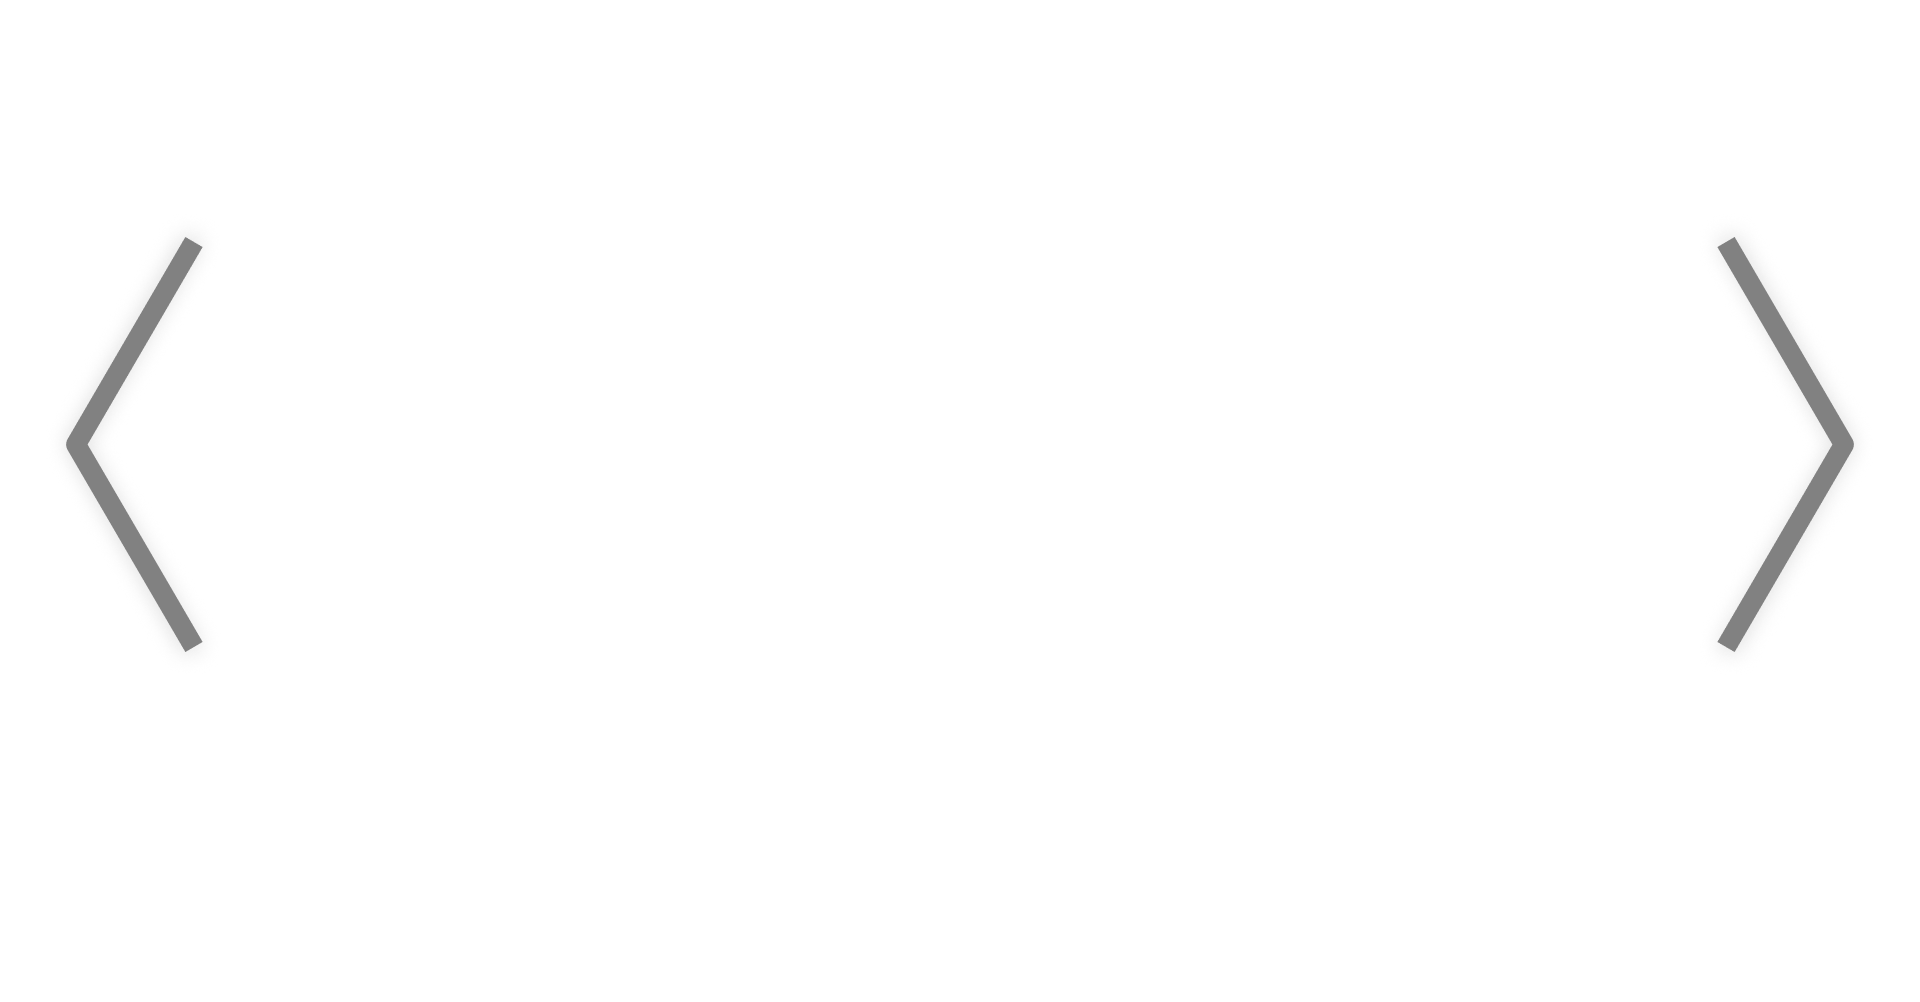
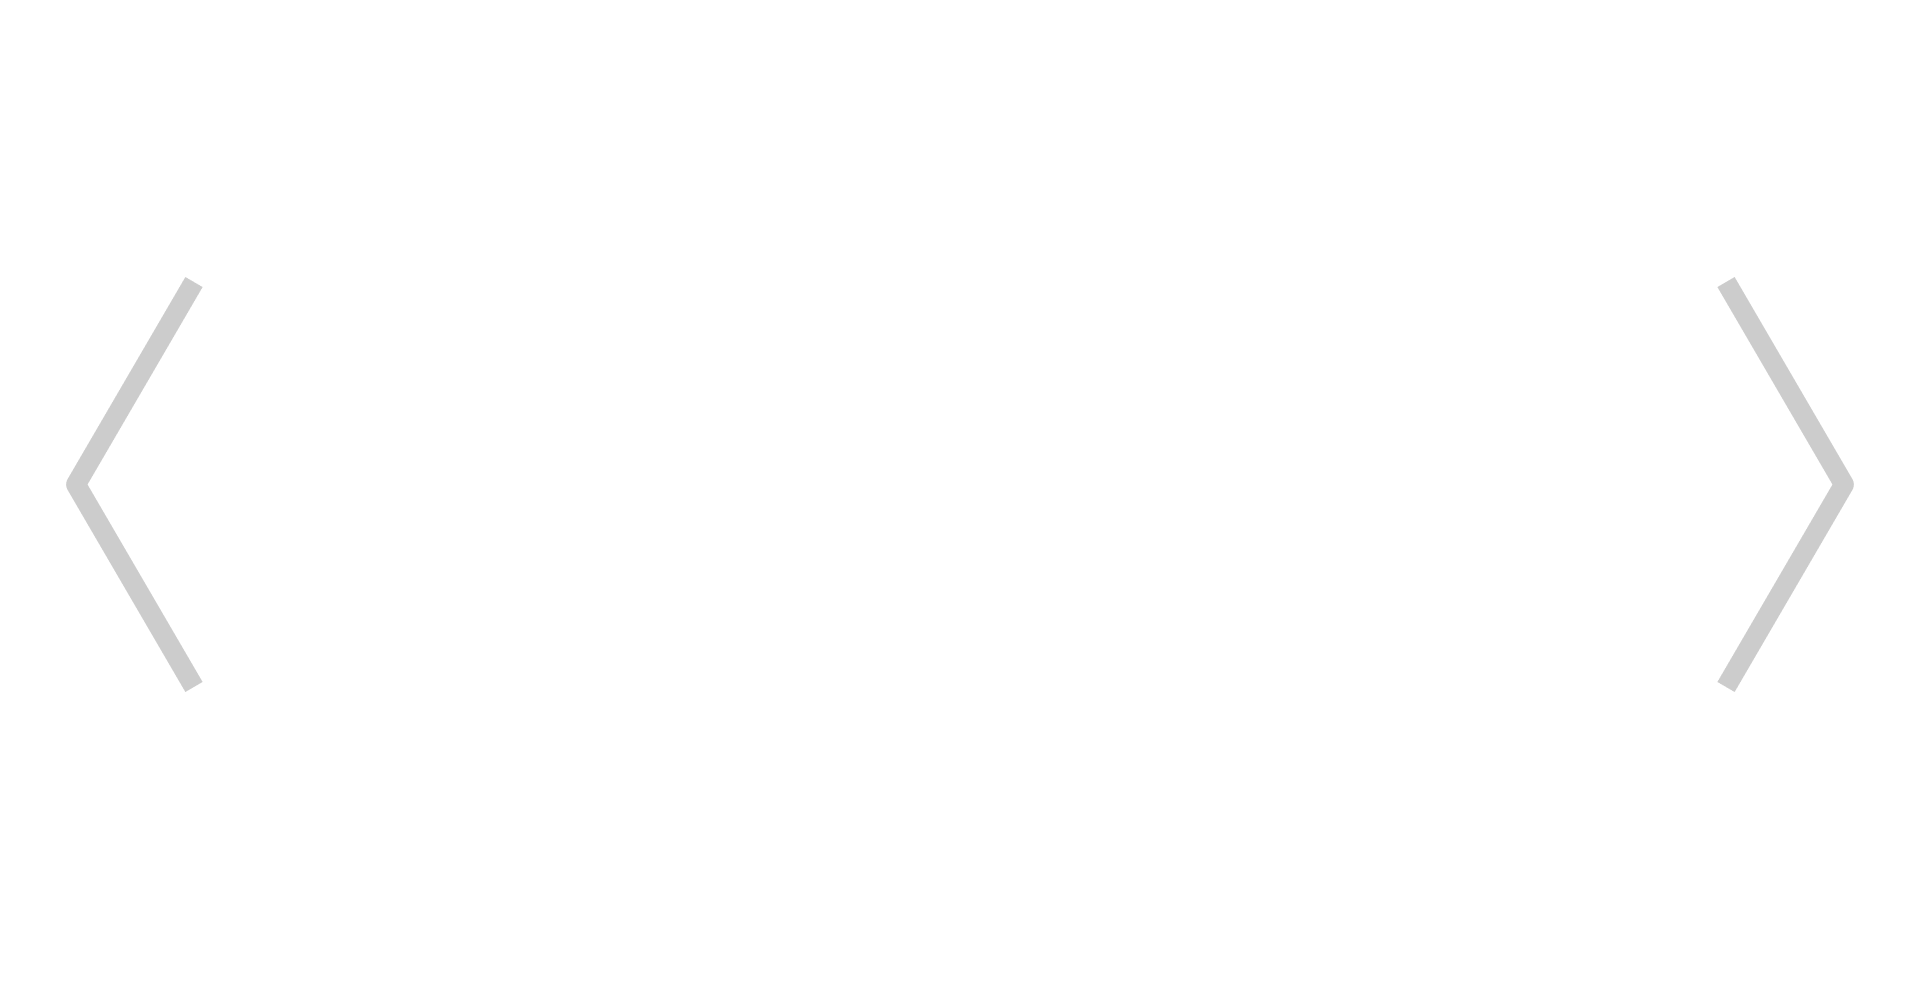
add social buttons and fix animations

Changed region(s): [[0.875, 0.2475, 0.9688, 0.6806], [0.0312, 0.2475, 0.125, 0.6806]]

diff --git a/index.html b/index.html
@@ -26,31 +26,33 @@
 	<meta property="twitter:title" content="Vandesm14">
 	<meta property="twitter:description" content="Shane Vandegrift, a friendly fullstack developer">
 	<meta property="twitter:image" content="fav.png">
+
+	<base target="_blank">
 </head>
 
 <body>
-	<div class="app">
-		<div class="main section scroll-snap">
-			<h1>Hi, I'm Shane</h1>
-			<i>A friendly fullstack developer</i>
-		</div>
-		<div class="section scroll-snap">
-			<h1 class="header">About</h1>
-			<p>I am Shane Vandegrift <i>(aka Vandesm14)</i>, an 18 yo. Nodejs full-stack web developer. I enjoy creating
-				useful full-stack applications
-				large and small. Alongside my interest for web development, I have a similar interest in the multimedia field.
-				This includes things like composing music, editing photos, writing articles, and working in the media booth at
-				my church.</p>
-		</div>
-		<div class="section no-mg">
-			<h1 class="header">Projects</h1>
-		</div>
+	<div class="main section scroll-snap">
+		<h1>Hi, I'm Shane</h1>
+		<i>A friendly fullstack developer</i>
+	</div>
+	<div class="section scroll-snap">
+		<h1 class="header">About</h1>
+		<p>I am Shane Vandegrift <i>(aka Vandesm14)</i>, an 18 yo. Nodejs full-stack web developer. I enjoy creating
+			useful full-stack applications
+			large and small. Alongside my interest for web development, I have a similar interest in the multimedia field.
+			This includes things like composing music, editing photos, writing articles, and working in the media booth at
+			my church.</p>
+	</div>
+	<div class="section no-mg">
+		<h1 class="header">Projects</h1>
+	</div>
+	<div class="projects-container" id="projects-container">
 		<div class="projects section no-mg scroll-snap" id="projects">
 			<div class="item">
 				<a href="https://classaware.org">
 					<h1>Classaware</h1>
+					<img src="assets/classaware.png">
 				</a>
-				<img src="assets/classaware.png">
 				<p>
 					A class-countdown system I built for North Penn High School students and staff during my time there. It is
 					still operational and updated to the revised schedules. This site was one of the first "viral" sites I created
@@ -60,8 +62,8 @@
 			<div class="item">
 				<a href="https://blog.vandesm14.ml">
 					<h1>Blog</h1>
+					<img src="assets/blog.png">
 				</a>
-				<img src="assets/blog.png">
 				<p>
 					A blog is a very important site to have if you're a developer. It took me a while to create the perfect one.
 					Each time I'd create one, it'd
@@ -72,26 +74,27 @@
 			<div class="item">
 				<a href="https://chat.hyperjs.ml">
 					<h1>LowChat</h1>
+					<img src="assets/lowchat.png">
 				</a>
-				<img src="assets/lowchat.png">
 				<p>
 					A feature-packed chatting website built with a NodeJS/Express server backend. This site is quite useful as it
 					requires no signup and is fast and easy to use.
 				</p>
 			</div>
 		</div>
-		<div class="section scroll-snap">
-			<h1 class="header">Contact</h1>
-			<p>
-				Need to get into contact with me? Here's a list of the various ways of doing so:<br><br>
-				<a href="https://discord.vandesm14.ml">Discord</a>,
-				<a href="mailto:vandesm14@gmail.com">Email</a>,
-				<a href="https://twitter.com/Vandesm14">Twitter</a>,
-				<a href="https://github.com/Vandesm14">Github</a>,
-				<a href="https://repl.it/@Vandesm14">Repl.it</a>
-			</p>
-		</div>
-		<footer></footer>
+	</div>
+	<div class="contact section scroll-snap">
+		<!-- <h1 class="header">Contact</h1> -->
+		<p>
+			Need to get into contact with me? Here's a list of the various ways of doing so:<br><br>
+			<div class="list">
+				<a href="https://discord.vandesm14.ml"><img src="assets/social/discordicon.png"></a>
+				<a href="mailto:vandesm14@gmail.com"><img src="assets/social/emailicon.png"></a>
+				<a href="https://twitter.com/Vandesm14"><img src="assets/social/twittericon.png"></a>
+				<a href="https://github.com/Vandesm14"><img src="assets/social/githubicon.jpg"></a>
+				<a href="https://repl.it/@Vandesm14"><img src="assets/social/repliticion.png"></a>
+			</div>
+		</p>
 	</div>
 	<script src="lib/jquery.min.js"></script>
 	<script src="lib/jquery.easing.1.3.js"></script>

diff --git a/style.css b/style.css
@@ -1,6 +1,6 @@
 @import url('https://fonts.googleapis.com/css?family=Audiowide|Baloo|Baloo+Bhai|Bebas+Neue|Comfortaa|Concert+One|Fredoka+One|Righteous|Roboto+Mono|Ubuntu+Mono&display=swap');
 
-html, body, .app {
+html, body {
   overflow: hidden;
   margin: 0;
   padding: 0;
@@ -12,6 +12,11 @@ body {
   background-color: black;
   color: white;
   font-family: Roboto Mono;
+  display: flex;
+  overflow-y: scroll;
+  flex-direction: column;
+
+  scroll-snap-type: y proximity;
 }
 
 div, h1, p {
@@ -22,14 +27,6 @@ div, h1, p {
 a, a:visited {
   color: green;
   text-decoration: underline;
-}
-
-.app {
-  display: flex;
-  overflow-y: scroll;
-  flex-direction: column;
-
-  scroll-snap-type: y proximity;
 }
 
 /* ----------App---------- */
@@ -78,24 +75,20 @@ a, a:visited {
 }
 
 /* ----------Projects---------- */
-/* .projects::before {
-  position: absolute;
-  top: 0;
-  left: 0;
+.projects-container {
+	width: 100vw;
+	height: 100vh;
   background-image: url('assets/chevrons.png');
   background-position: center;
   background-size: 100%;
-  background-repeat: no-repeat;
-	content: '';
-	width: 100vw;
-	height: 100vh;
-	opacity: 0.4;
-} */
+	background-repeat: no-repeat;
+}
 
 .projects {
   flex-direction: row;
   margin-left: 100vw;
-  max-width: max-content;
+	max-width: max-content;
+	height: 100vh;
 }
 
 .projects > .item {
@@ -103,31 +96,73 @@ a, a:visited {
   min-width: 100vw;
 }
 
-.projects > .item > a {
+.projects > .item  a > h1 {
   display: block;
   margin: 0 auto;
   padding: 4px 10px;
   width: max-content;
   border-radius: 6px;
-  background-color: green;
+  /* background-color: green; */
+  color: white;
+  text-align: center;
+  text-decoration: none;
+}
+
+.projects > .item > a {
+  display: block;
+  margin: 0 auto;
+  width: min-content;
+  border-radius: 6px;
+  background-color: transparent;
   color: white;
   text-align: center;
   text-decoration: none;
   font-size: 24px;
 }
 
-.projects > .item > img {
+.projects > .item > a > img {
   margin: 30px auto;
-  max-width: 50%;
+  max-width: 50vw;
   border-radius: 6px;
 
   user-select: none;
 }
 
 .projects > .item > p {
-  margin: 20px auto;
+  margin: 0 auto;
   padding: 0 40px;
   width: 70vw;
   text-align: left;
   font-size: 20px;
+}
+
+/* ----------Contact---------- */
+.contact {
+	margin-bottom: 20vh;
+}
+
+.contact .list {
+	display: flex;
+	flex-direction: row;
+	margin-bottom: 10vh;
+	justify-content: center;
+}
+
+.contact .list > a {
+	margin: 0 14px;
+}
+
+.contact .list > a > img {
+	border-radius: 100%;
+	background-color: white;
+	width: 60px;
+	height: 60px;
+	padding: 6px;
+	transition: 200ms ease-out;
+}
+.contact .list > a:hover > img {
+	padding: 12px;
+	margin: -6px;
+	margin-top: -20px;
+	background-color: lightgreen;
 }

diff --git a/script.js b/script.js
@@ -1,30 +1,47 @@
 let slide = 0;
 
 $(document).ready(function () {
-	// $('#projects > .item').on('mousedown', function (e) {
-	$('#projects').on('mousedown', function (e) {
+	$('#projects-container').on('mousedown', function (e) {
 		e.preventDefault();
 		let x = e.clientX;
-		let width = $(document).width();
+		let width = $(window).width();
 		if (x < width / 2) { // Left
-			if (slide > 0) {
-				slide--;
-				$('#projects').animate({
-					marginLeft: `${-slide*100+100}vw`
-				}, {duration: 500, easing: 'easeInOutQuad'});
-			}
+			move(-1);
 		} else if (x > width / 2) { // Right
-			if (slide < 2) {
-				slide++;
-				$('#projects').animate({
-					marginLeft: `${-slide*100+100}vw`
-				}, {duration: 500, easing: 'easeInOutQuad'});
-			}
+			move(1);
+		}
+	});
+
+	$(document).on('keydown', function (e) {
+		if ($('#projects-container').is(':focus')) return;
+		if (e.key === 'ArrowLeft') {
+			move(-1);
+		} else if (e.key === 'ArrowRight') {
+			move(1);
 		}
 	});
 
 	$('#projects > .item *').on('mousedown', function (e) {
-		console.log('child click');
 		e.stopPropagation();
 	});
 });
+
+function move(by) {
+	if (by === 1) {
+		if (slide < $('#projects').children().length - 1) {
+			slide++;
+			$('#projects').stop(true, true);
+			$('#projects').animate({
+				marginLeft: `${-slide*100+100}vw`
+			}, {duration: 500, easing: 'easeInOutQuad'});
+		}
+	} else if (by === -1) {
+		if (slide > 0) {
+			slide--;
+			$('#projects').stop(true, true);
+			$('#projects').animate({
+				marginLeft: `${-slide*100+100}vw`
+			}, {duration: 500, easing: 'easeInOutQuad'});
+		}
+	}
+}
